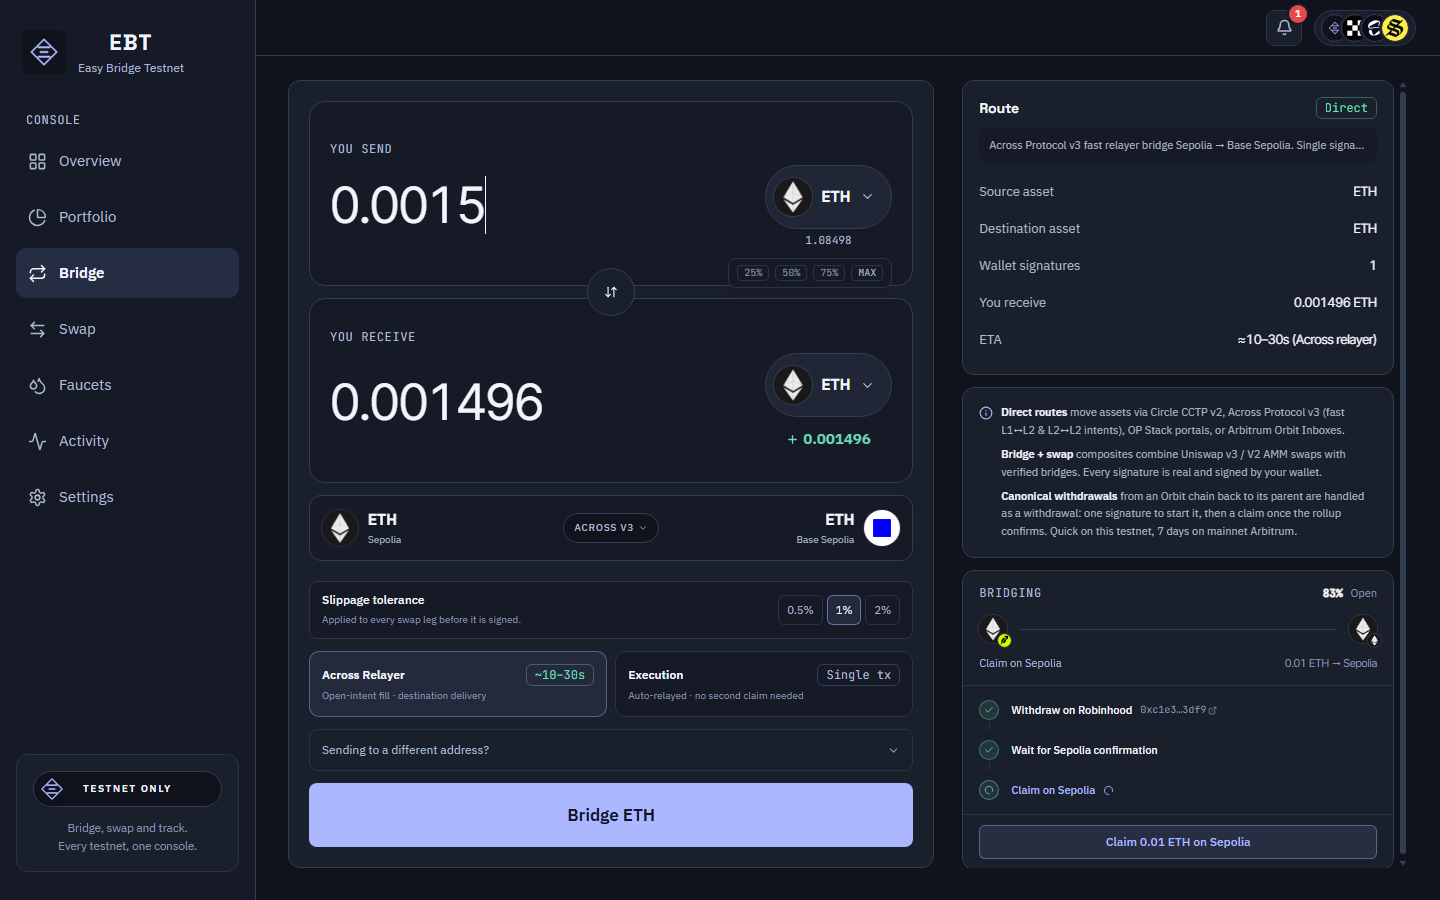
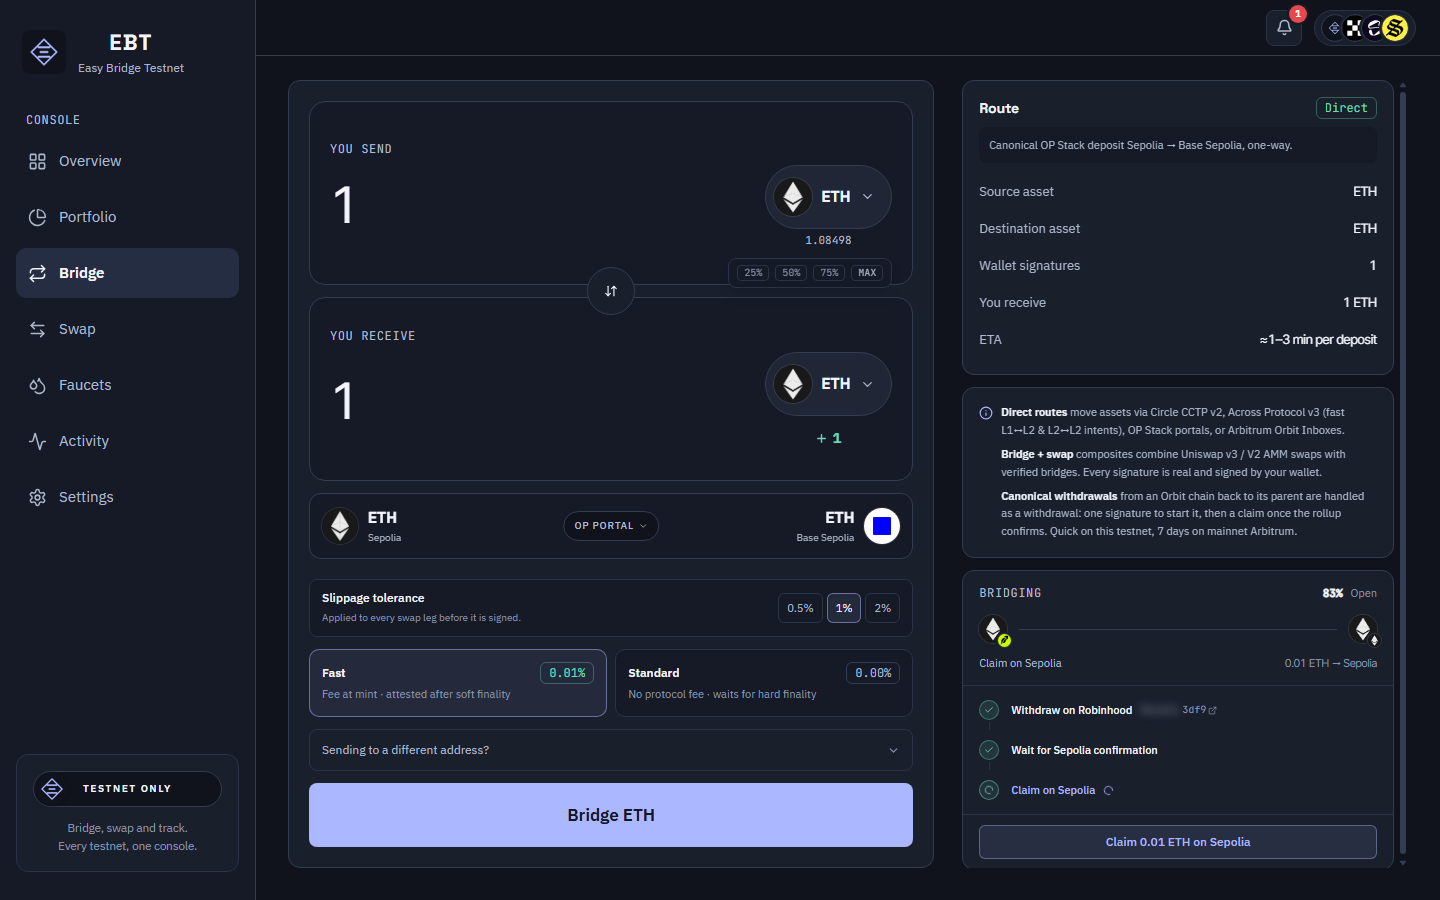
docs(readme): 1 ETH bridge and swap shots, send/receive/recovery sections, redacted addresses

diff --git a/README.md b/README.md
@@ -2,15 +2,14 @@
 
 **Bridge, swap and track. Every testnet, one console.**
 
-EBT is a browser-only console for testnet assets: it reads balances straight from each chain,
-quotes real routes, signs with your own wallet, and keeps a local ledger of what you did. There is
-no account, no backend and no custody. Keys never leave the wallet extension.
+EBT is a browser console for testnet assets: it reads balances from every supported chain,
+quotes real routes, signs with your own wallet, and keeps a local ledger of what you did. Keys
+never leave the wallet extension.
 
 **Live demo:** https://ebt-ashy.vercel.app
 
 [![live demo](https://img.shields.io/badge/demo-ebt--ashy.vercel.app-6b7cff)](https://ebt-ashy.vercel.app)
 [![testnet only](https://img.shields.io/badge/network-testnet%20only-6b7cff)](#what-it-is-not)
-[![no backend](https://img.shields.io/badge/backend-none-2ea043)](#architecture)
 [![license MIT](https://img.shields.io/badge/license-MIT-blue)](LICENSE)
 [![stack](https://img.shields.io/badge/React%2019%20%2B%20Vite%20%2B%20wagmi-0b0f1a)](#quick-start)
 
@@ -31,8 +30,6 @@ no account, no backend and no custody. Keys never leave the wallet extension.
 
 - **Not mainnet.** Every chain, token and RPC in this build is a testnet. Nothing here moves real value.
 - **Not a wallet.** EBT never sees a seed phrase or a private key. Your wallet signs everything.
-- **Not a service.** There is no server to trust and no database to breach. Balances are read from
-  public RPCs and the activity list lives in `localStorage` on your machine.
 - **Not financial advice.** Testnet tokens have no price. Fiat numbers are display-only estimates.
 
 ## Overview
@@ -108,21 +105,25 @@ deduplicated, so the same path never appears twice under different names.
 
 ![Settings](docs/screenshots/08-settings-dark.png)
 
-## Wallets and notifications
+## Send, receive and recovery
 
-| Connected wallets | Pending transfer |
+| Token actions | Receive |
 | --- | --- |
-| ![Connected wallets](docs/screenshots/09-wallets-dark.png) | ![Pending transfer](docs/screenshots/10-notifications-dark.png) |
+| ![Token actions](docs/screenshots/12-token-sheet-light.png) | ![Receive](docs/screenshots/13-receive-light.png) |
 
-Several wallets can be connected at once (EVM plus non-EVM accounts), and the bell tracks every
-transfer that still needs a claim, so a bridge you close is never lost.
+- **Send** checks the destination against the wallet family you picked before it enables the button.
+- **Receive** shows a QR and the address for the selected chain, with one click to copy.
+- **Recovery** lists withdrawals that are ready to claim and USDC that was burned but not minted,
+  so nothing is left half-finished.
+
+![Recovery](docs/screenshots/14-recovery-light.png)
 
 ## Light theme and mobile
 
 <p align="center"><img src="docs/screenshots/11-portfolio-mobile-light.png" alt="Mobile portfolio" width="300"></p>
 
 Both themes share one accent ramp, and the layout collapses to a bottom bar on small screens.
-The portfolio shots above are light mode; every other screen is shown in dark mode.
+Portfolio screens are shown in light mode, everything else in dark mode.
 
 ## Chains
 
